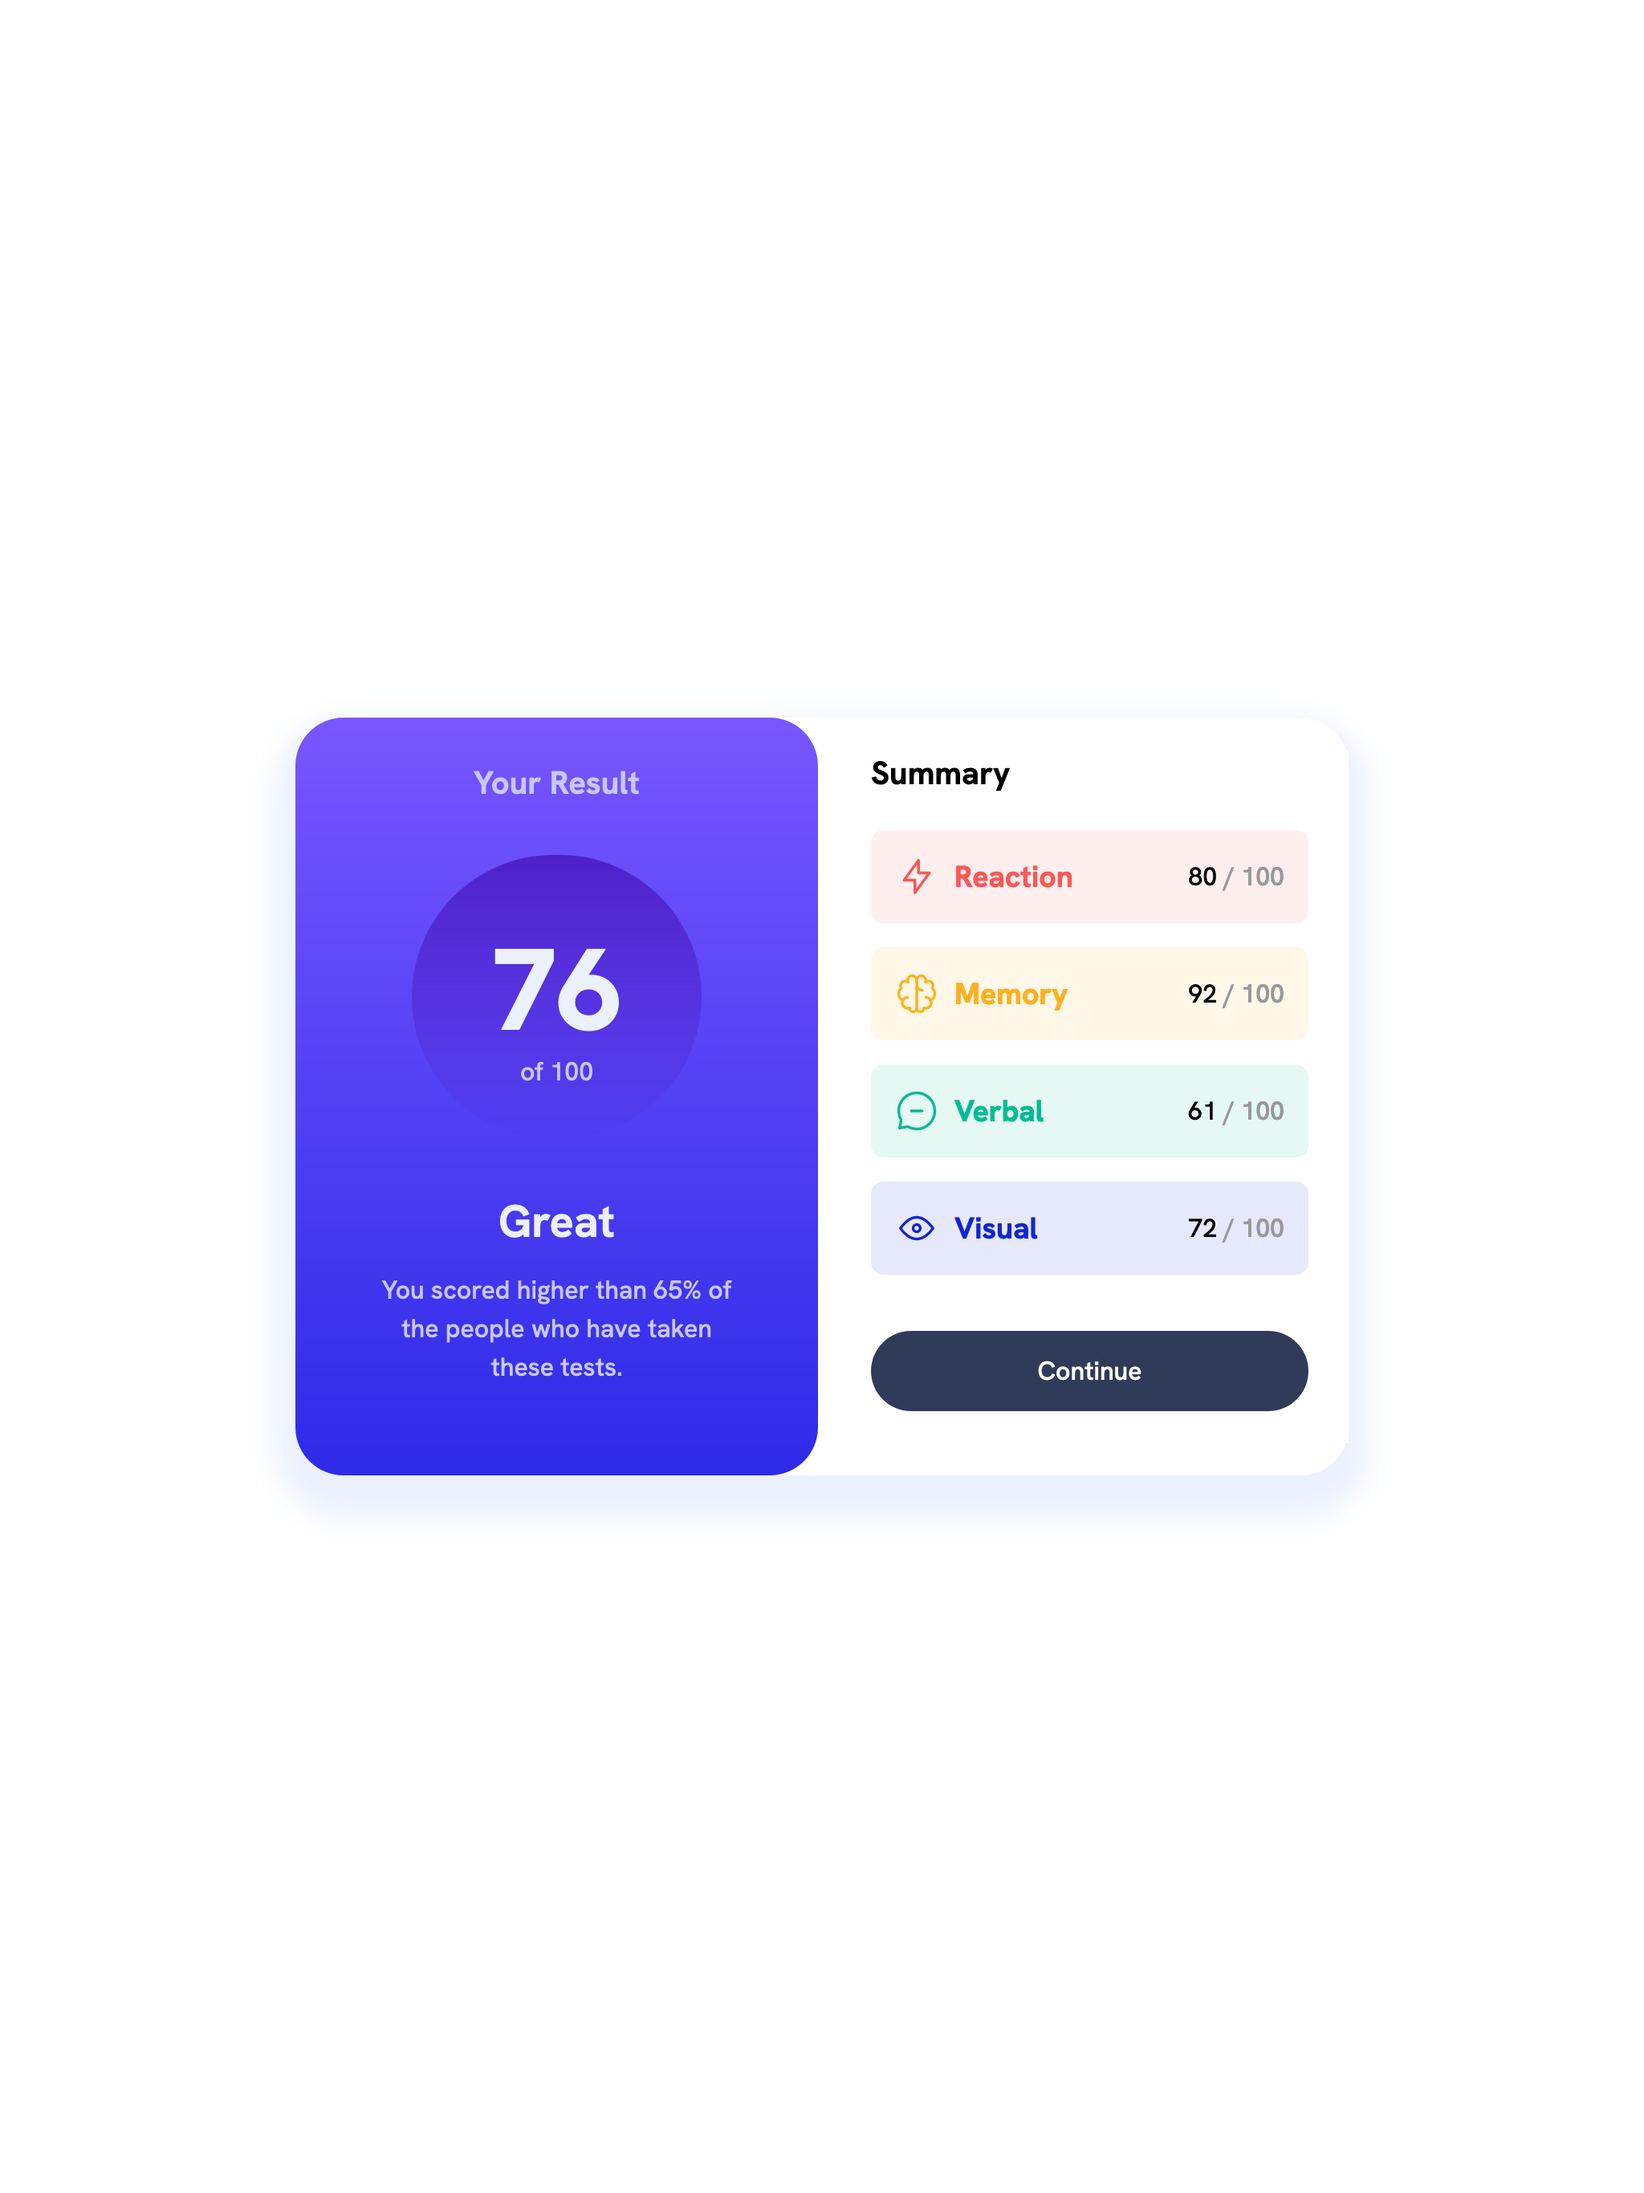
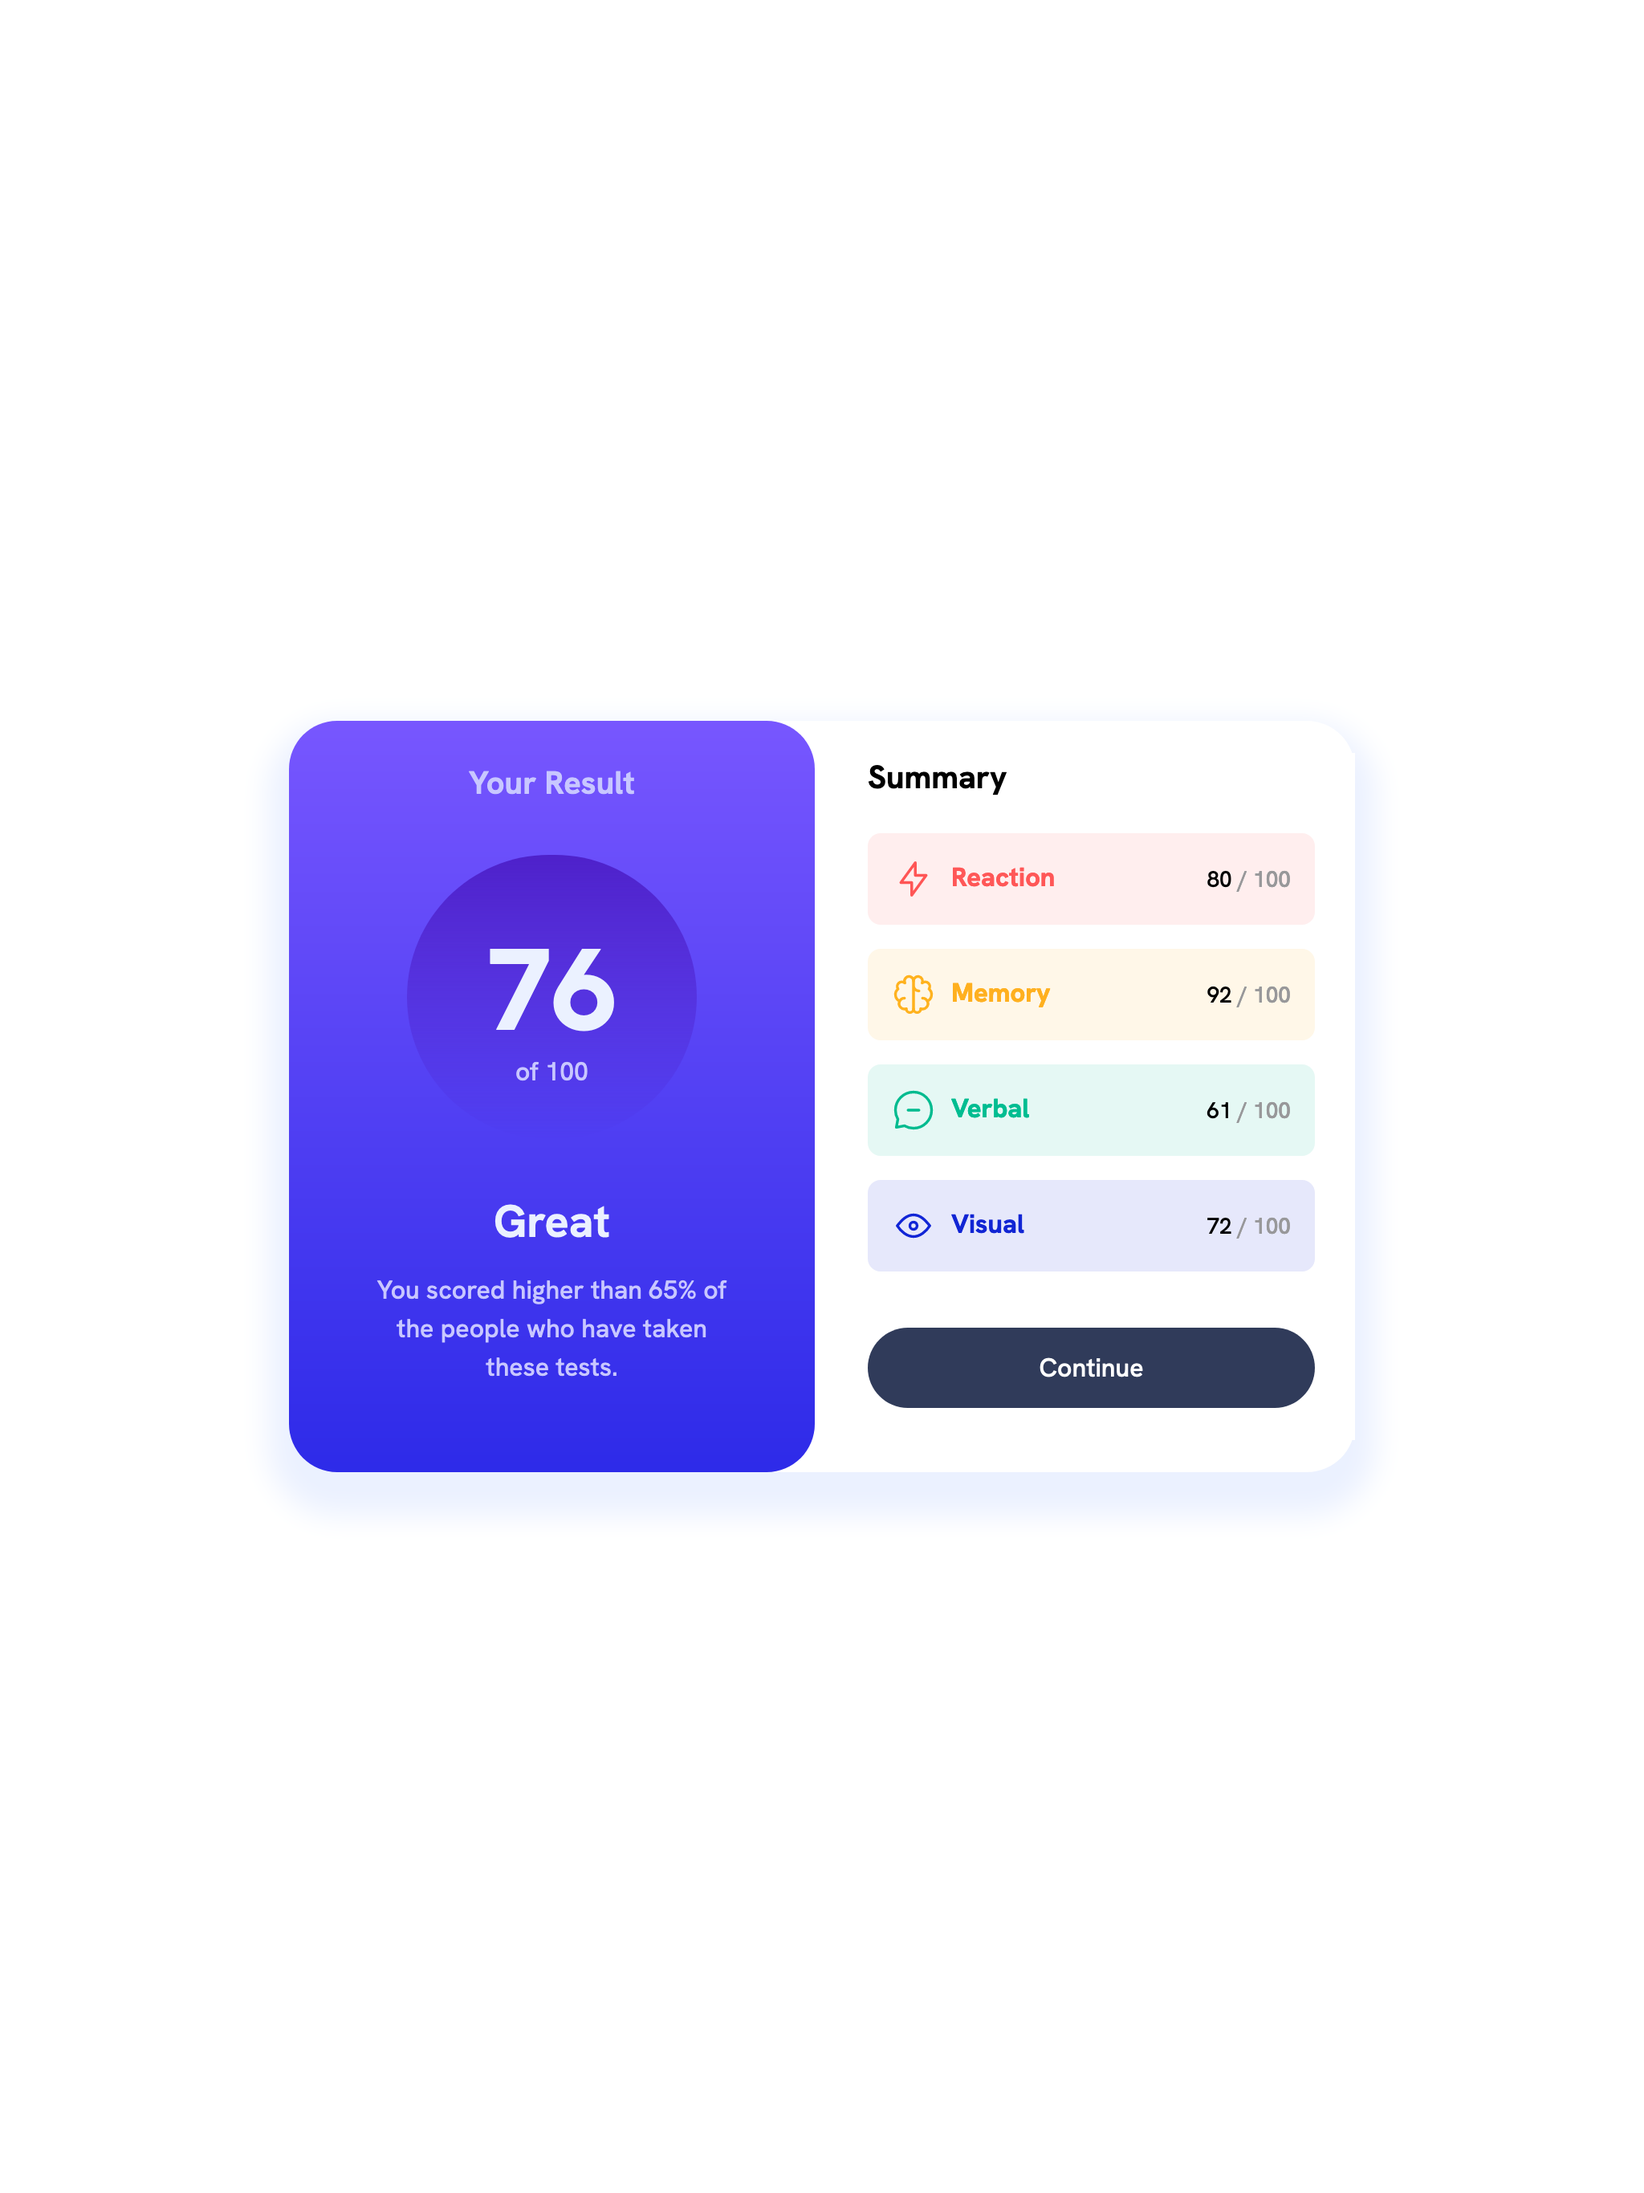
slightly increase width and use one size for item text

diff --git a/src/styles.sass b/src/styles.sass
@@ -39,7 +39,7 @@ $color-persian-blue: hsla(241, 72%, 46%, 0)
   box-shadow: 0 14px 18px 13px $color-pale-blue
   
   @media screen and (min-width: 1023px)
-    max-width: 41rem
+    max-width: 41.5rem
     flex-direction: row
     border-radius: 30px
 
@@ -176,9 +176,6 @@ $color-persian-blue: hsla(241, 72%, 46%, 0)
     margin-bottom: 15px
     padding: 15px
     font-size: 0.875rem
-
-    @media screen and (min-width: 1023px)
-      font-size: 1rem
 
     &--bg
       &-red
